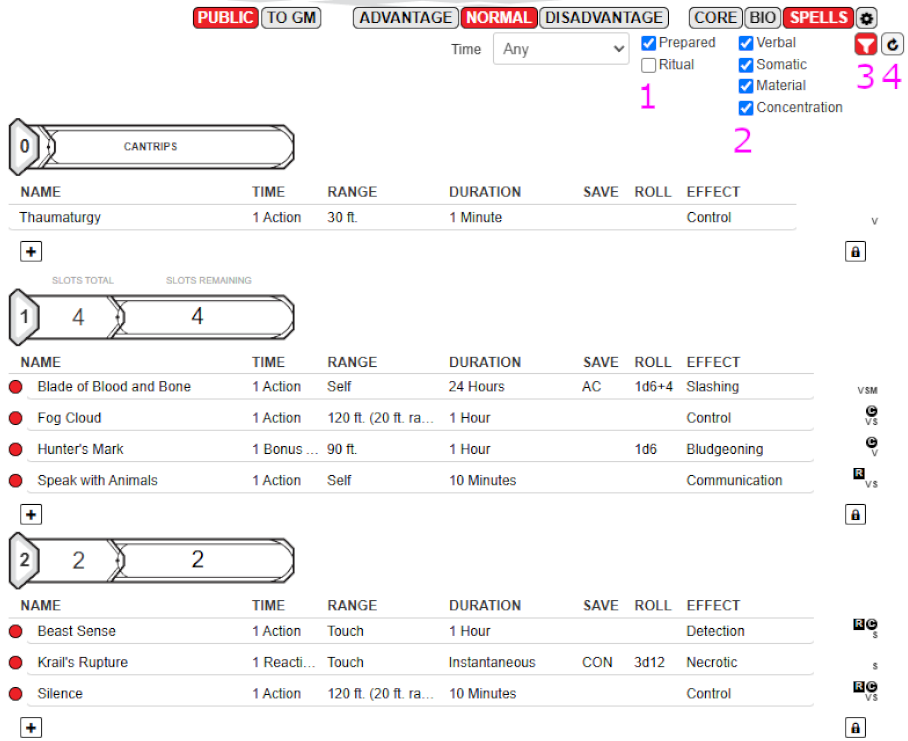
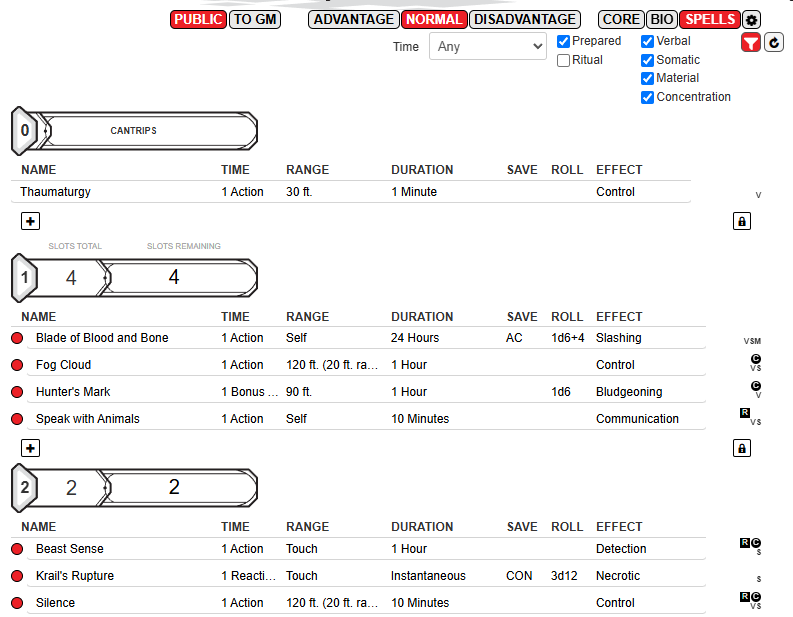
better image

diff --git a/README.md b/README.md
@@ -53,7 +53,7 @@ Only enabled for players because GMs already get most of these features.
 - Exclude/include hidden journal items (2)
 - Enable/disable drag and drop sorting (3)
 
-[![Journal Header](/_docs/images/journal-1.png)]
+![Journal Header](/_docs/images/journal-1.png)
 
 ---
 
@@ -61,7 +61,7 @@ Only enabled for players because GMs already get most of these features.
 
 - Adds titles next to each icon
 
-[![Marker Menu](/_docs/images/markers-1.png)]
+![Marker Menu](/_docs/images/markers-1.png)
 
 ---
 
@@ -70,7 +70,7 @@ Only enabled for players because GMs already get most of these features.
 - Dedicated location for resistance, vulnerability, and immunity.
 - Option wheel is on the right side between speed and hit point boxes
 
-[![Defense View](/_docs/images/defense-1.png)] [![Defense Editor](/_docs/images/defense-2.png)]
+![Defense View](/_docs/images/defense-1.png) ![Defense Editor](/_docs/images/defense-2.png)
 
 ---
 
@@ -82,7 +82,7 @@ Track and display conditions that are afflicting this character
 - Only shows unique effects if multiple conditions are enabled
 - Click on condition name to read full description (maybe one day I will make this look nice)
 
-[![Conditions View](/_docs/images/conditions-1.png)] [![Conditions Editor](/_docs/images/conditions-2.png)]
+![Conditions View](/_docs/images/conditions-1.png) ![Conditions Editor](/_docs/images/conditions-2.png)
 
 ---
 
@@ -95,7 +95,7 @@ Track and display conditions that are afflicting this character
   - Track upgrades for "The Complete Armorer's Handbook"
 - Item type of "Divider" only displays the item name
 
-[![Inventory View](/_docs/images/inventory-1.png)] [![Inventory Editor](/_docs/images/inventory-2.png)]
+![Inventory View](/_docs/images/inventory-1.png) ![Inventory Editor](/_docs/images/inventory-2.png)
 
 ---
 
@@ -110,7 +110,7 @@ Track and display conditions that are afflicting this character
   - Tables: https://www.markdownguide.org/extended-syntax/#tables
 - Removed titles from scrolls to make boxes more generic
 
-[![Characteristics View](/_docs/images/characteristics-1.png)]
+![Characteristics View](/_docs/images/characteristics-1.png)
 
 ---
 
@@ -119,12 +119,12 @@ Track and display conditions that are afflicting this character
 - Added row view layout with additional spell details
 - Added markdown support to spell descriptions
 - Added spell filter
-  - Show only prepared/ritual spells (1)
-  - Filter spells by requirements (2)
-  - Show/hide spell filter (3)
-  - Reset spell filter (4)
+  - Show only prepared/ritual spells
+  - Filter spells by requirements
+  - Show/hide spell filter
+  - Reset spell filter
 
-[![Spell View](/_docs/images/spell-1.png)]
+![Spell View](/_docs/images/spell-1.png)
 
 ---
 
@@ -138,7 +138,7 @@ Track and display conditions that are afflicting this character
   - Set as Default: Sets current settings as future default settings
   - Reset to Default: Resets sheet to your default settings
 
-[![Game Settings](/_docs/images/settings-1.png)] [![Sheet Settings](/_docs/images/settings-2.png)]
+![Game Settings](/_docs/images/settings-1.png) ![Sheet Settings](/_docs/images/settings-2.png)
 
 ---
 
